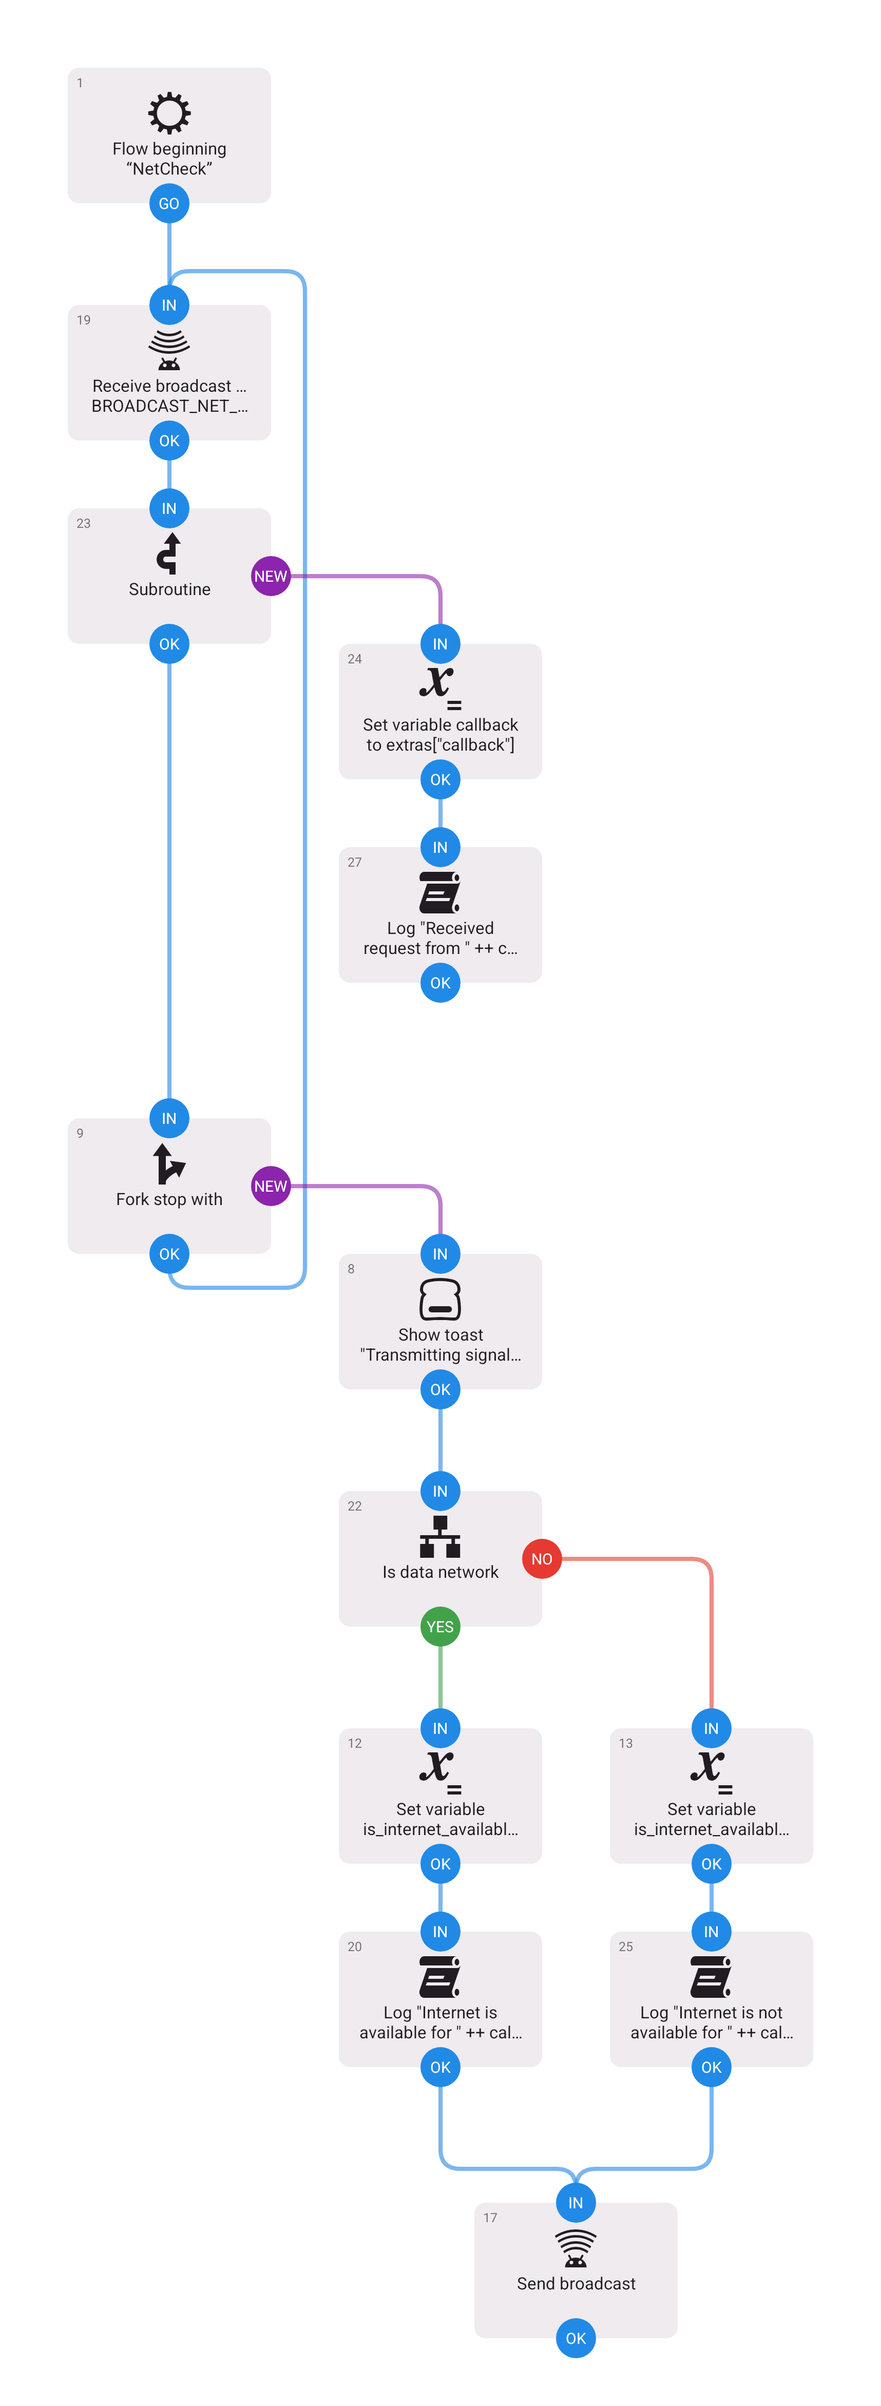
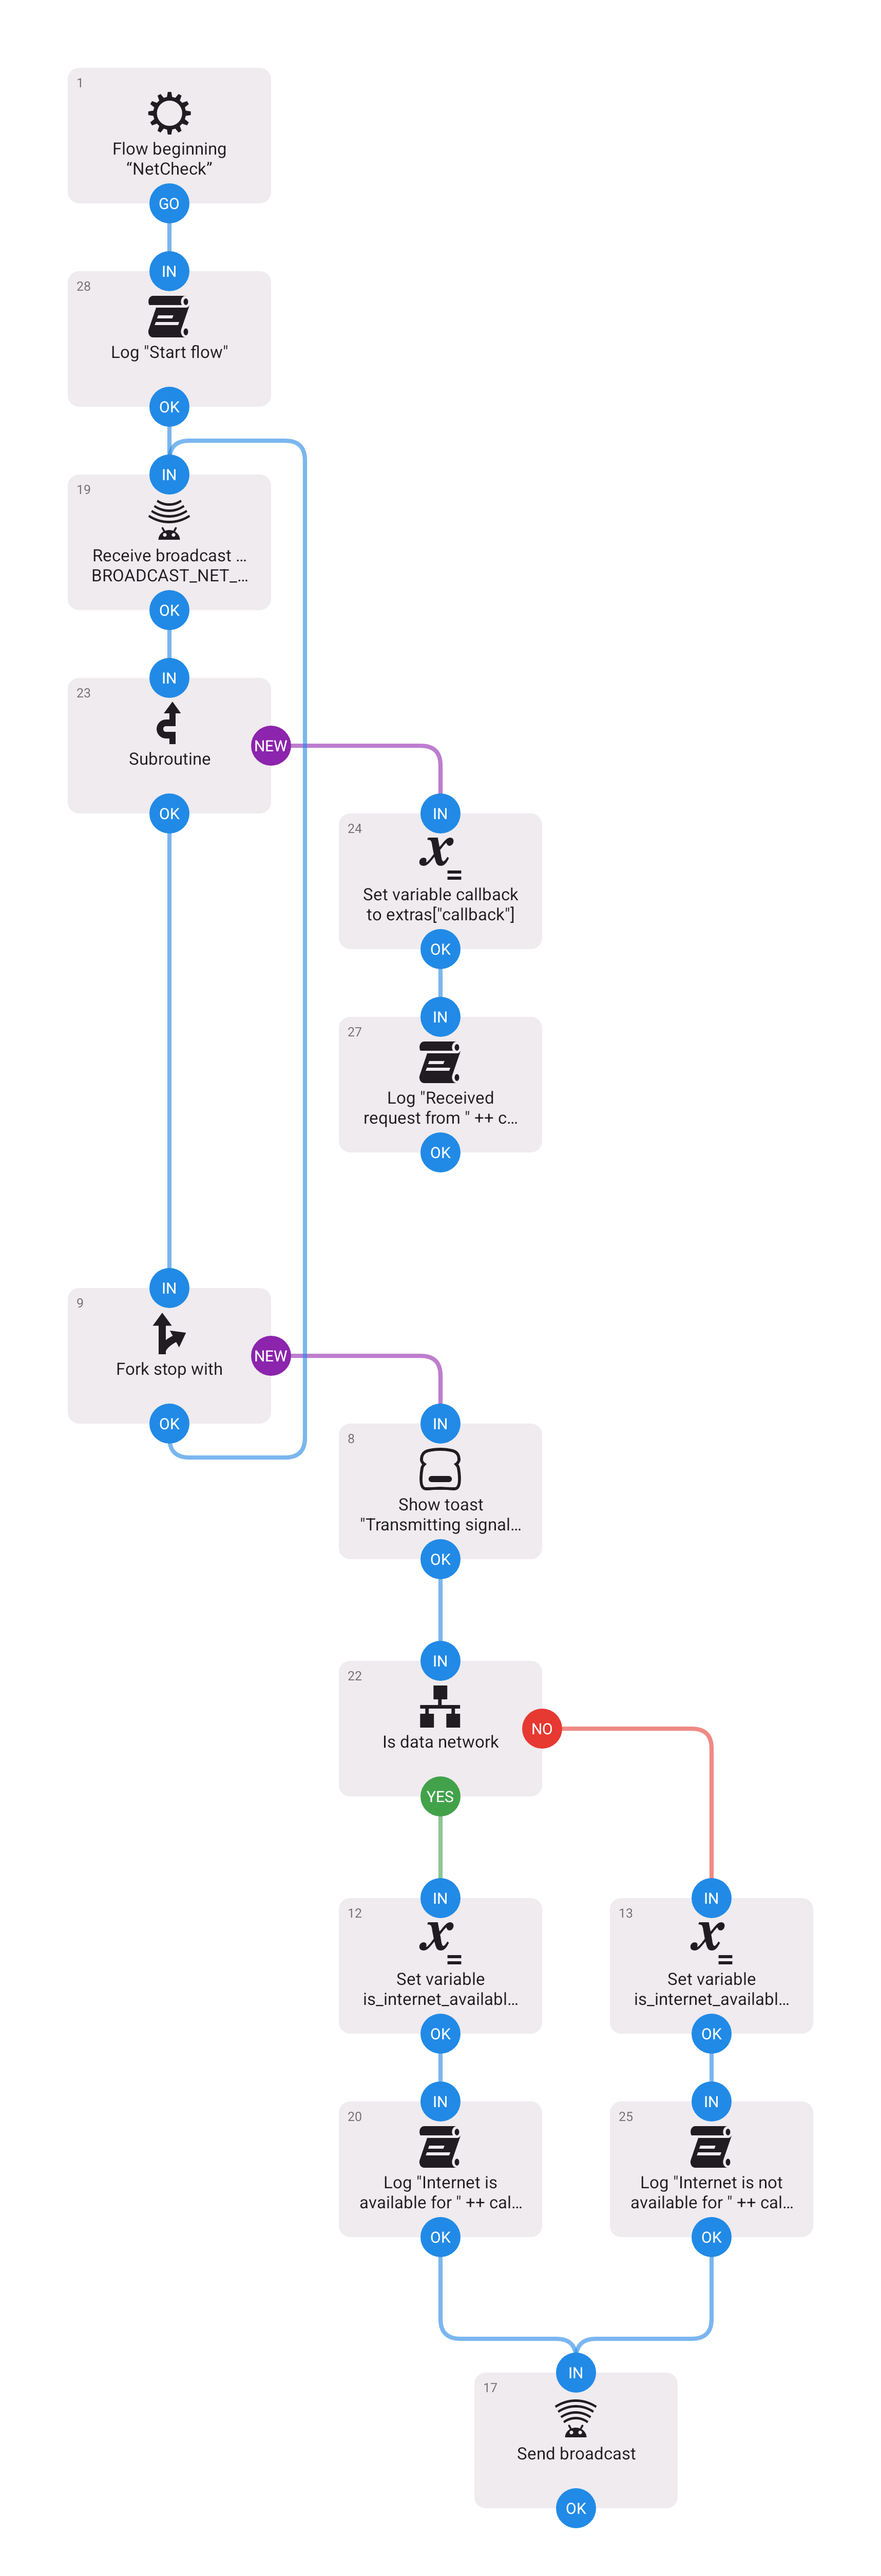
refactor(net-check): added start log

diff --git a/flows/Net Check/README.md b/flows/Net Check/README.md
@@ -1,6 +1,6 @@
 # Description
 
-[ver.29]
+[ver.30]
 
 Uses broadcast event from other flows to check for internet connection.
 
